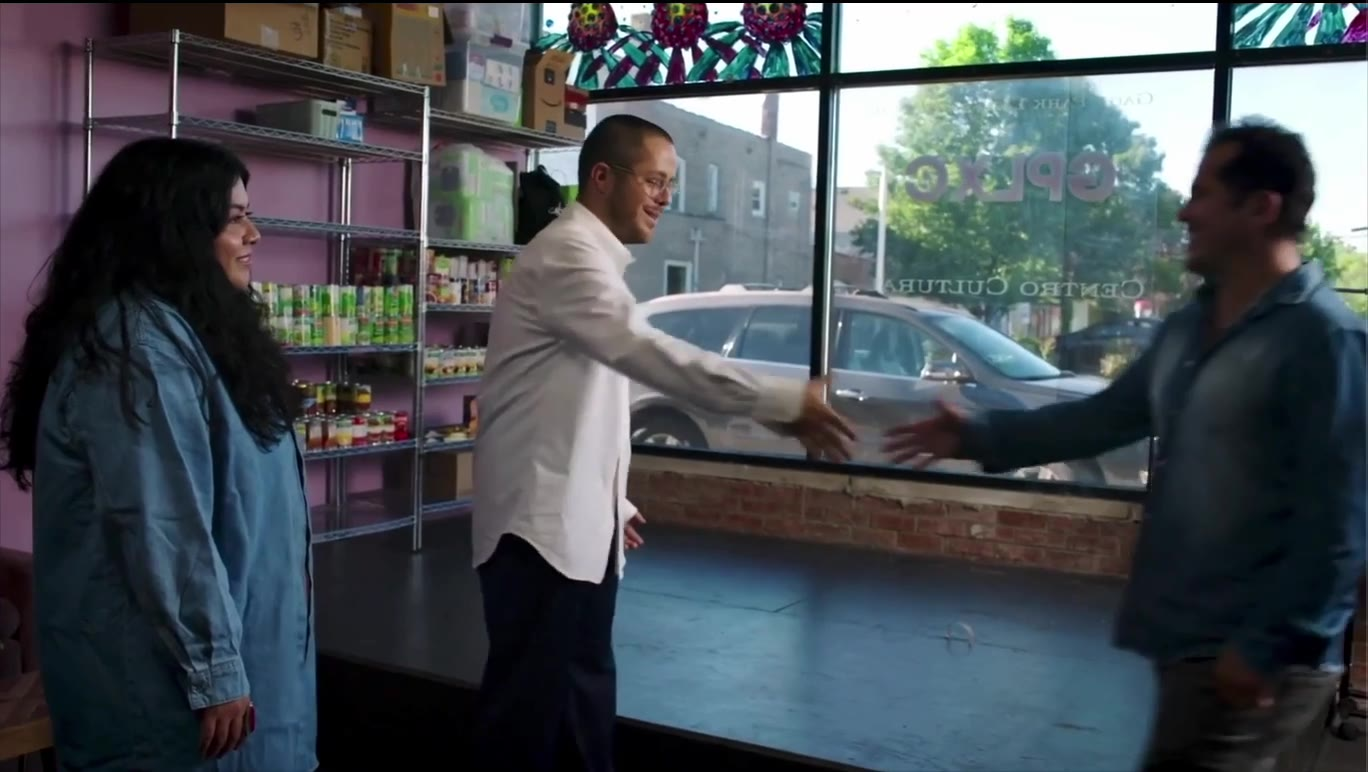
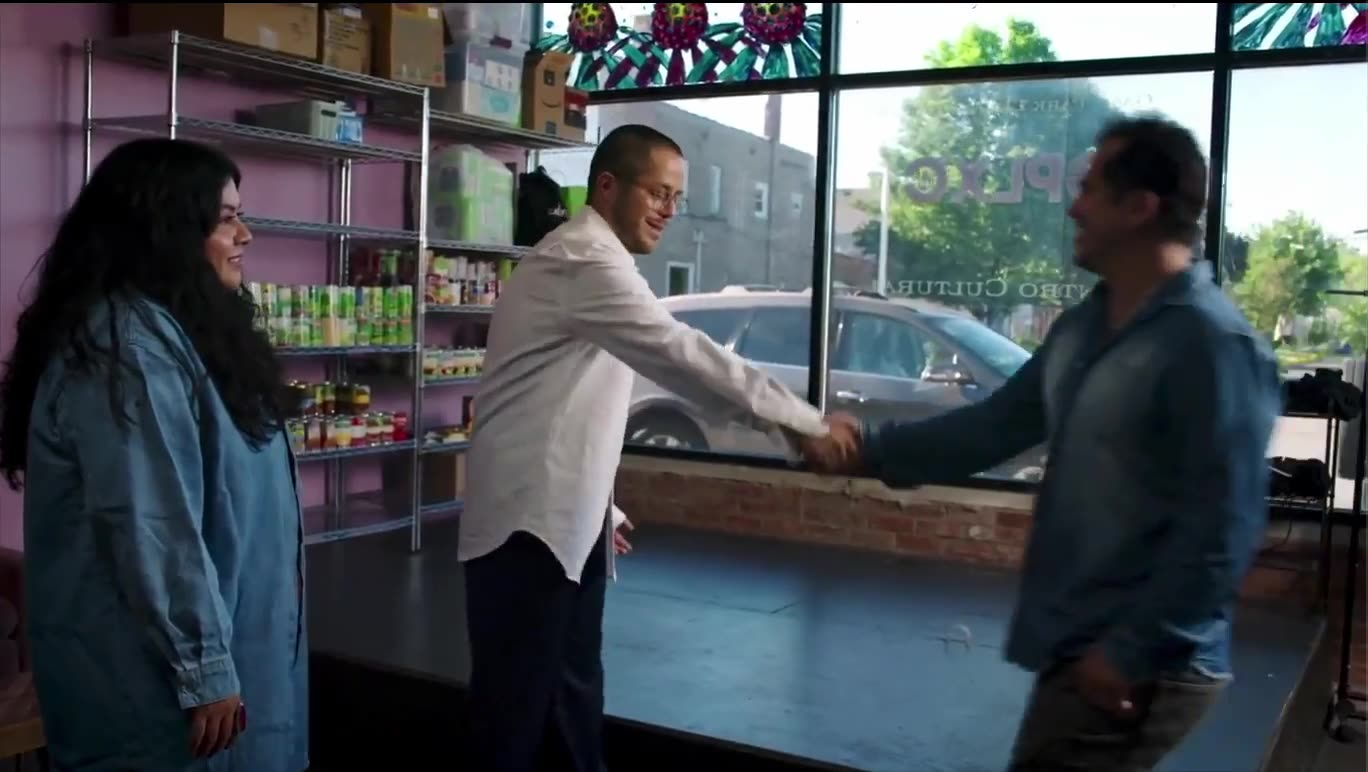
Fix GPLXC About Client clip with a Chrome-playable audio-preserving encode.
Keep the original AAC bitstream, re-encode only the video track, and add an open-in-new-tab fallback so the news clip can load when inline playback stalls.

diff --git a/projects/pequenos-sonadores-research.html b/projects/pequenos-sonadores-research.html
@@ -164,13 +164,16 @@
         <div class="project-about__media">
           <video
             class="project-about__video"
-            src="../assets/media/gplxc-about.mp4?v=3"
-            poster="../assets/media/gplxc-about-poster.jpg"
             controls
             playsinline
-            preload="auto"
-            controlslist="nodownload"
-          ></video>
+            preload="metadata"
+            poster="../assets/media/gplxc-about-poster.jpg"
+          >
+            <source src="../assets/media/gplxc-about-client.mp4" type="video/mp4" />
+          </video>
+          <p class="project-about__video-link">
+            <a href="../assets/media/gplxc-about-client.mp4" target="_blank" rel="noopener">Open video</a>
+          </p>
         </div>
 
         <div class="project-about__copy">

diff --git a/projects/pequenos-sonadores.html b/projects/pequenos-sonadores.html
@@ -164,13 +164,16 @@
         <div class="project-about__media">
           <video
             class="project-about__video"
-            src="../assets/media/gplxc-about.mp4?v=3"
-            poster="../assets/media/gplxc-about-poster.jpg"
             controls
             playsinline
-            preload="auto"
-            controlslist="nodownload"
-          ></video>
+            preload="metadata"
+            poster="../assets/media/gplxc-about-poster.jpg"
+          >
+            <source src="../assets/media/gplxc-about-client.mp4" type="video/mp4" />
+          </video>
+          <p class="project-about__video-link">
+            <a href="../assets/media/gplxc-about-client.mp4" target="_blank" rel="noopener">Open video</a>
+          </p>
         </div>
 
         <div class="project-about__copy">
